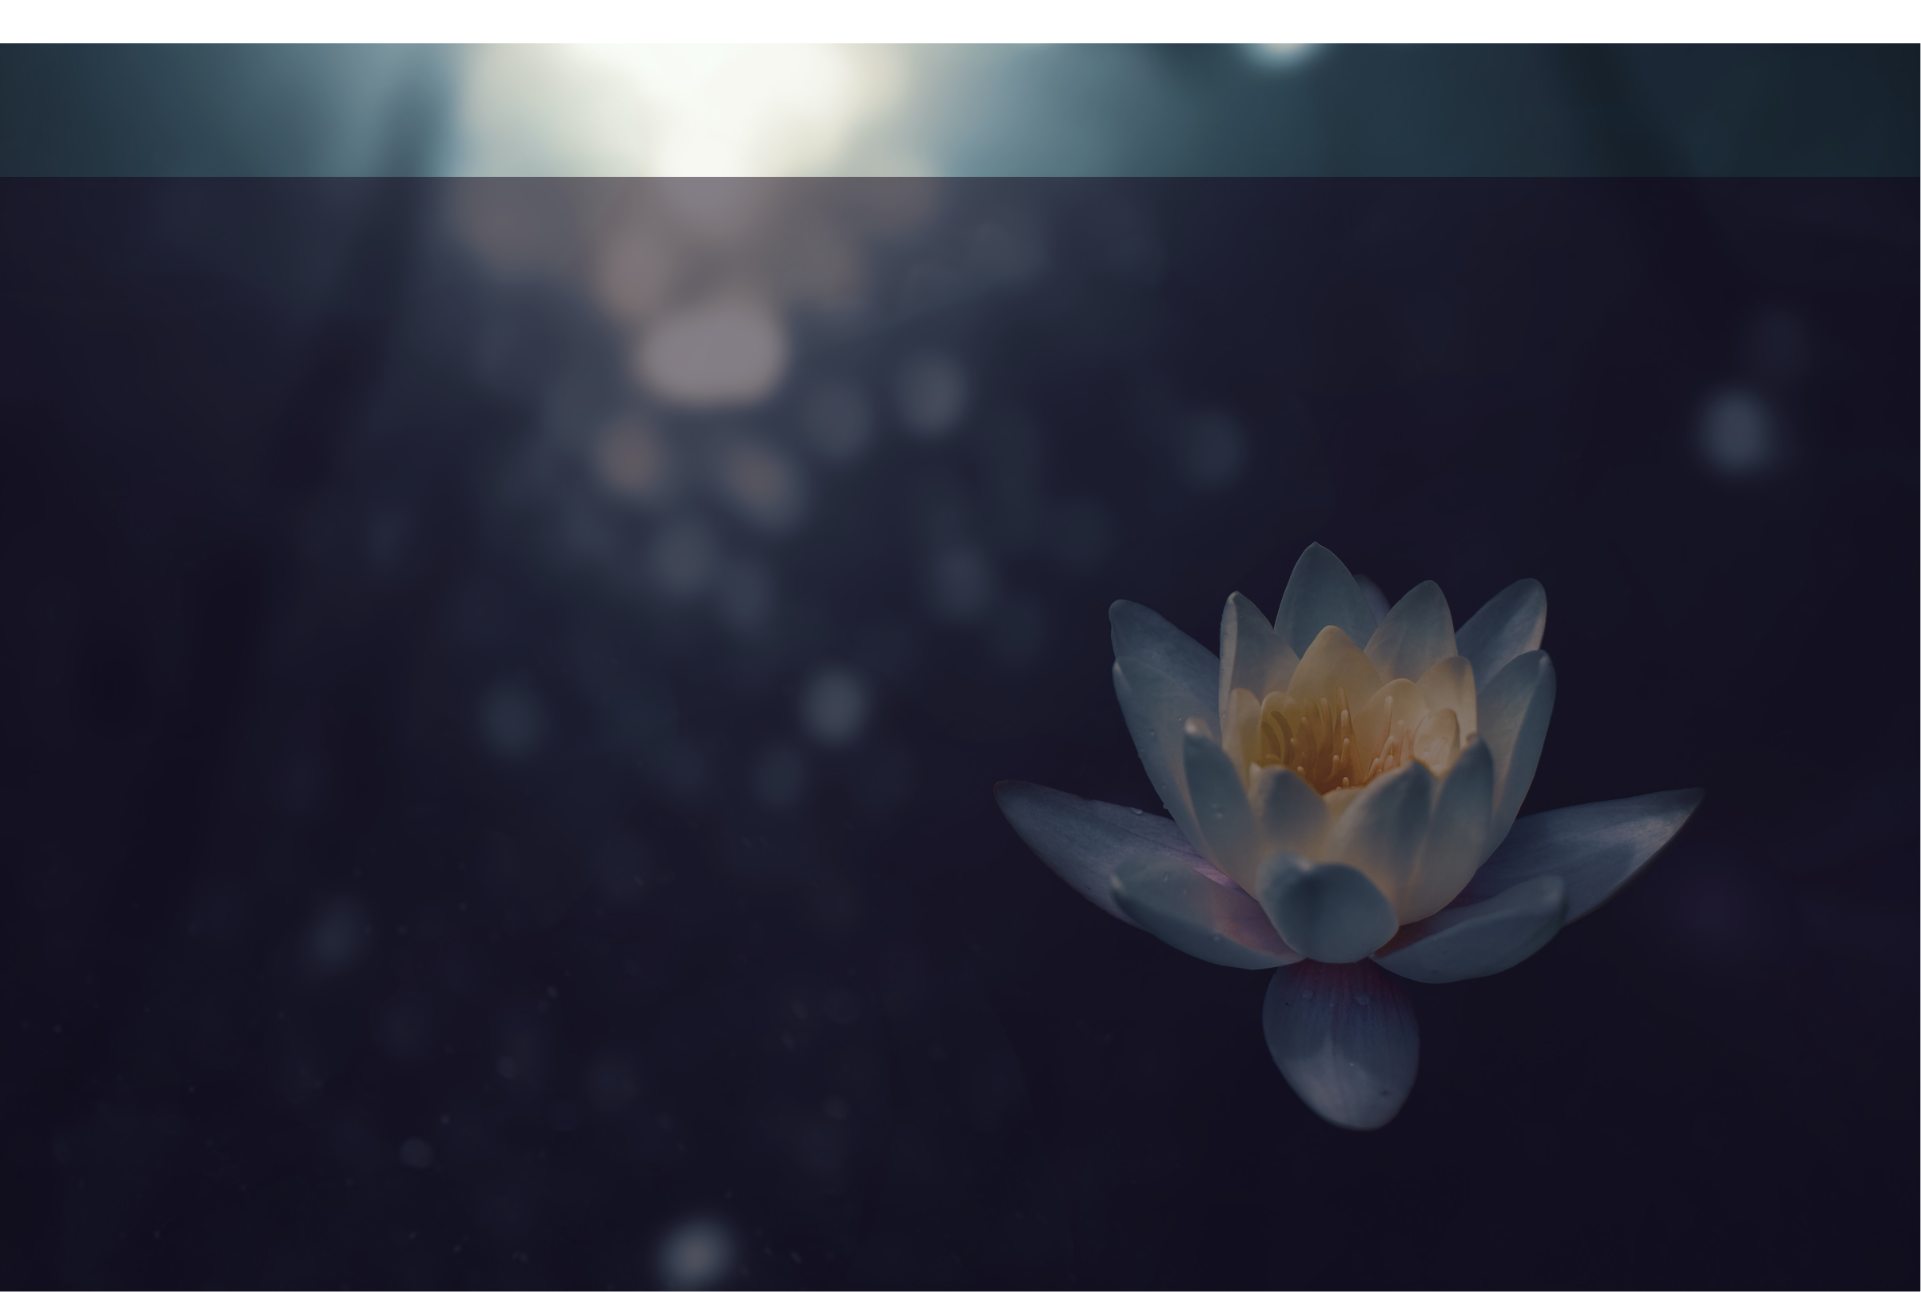
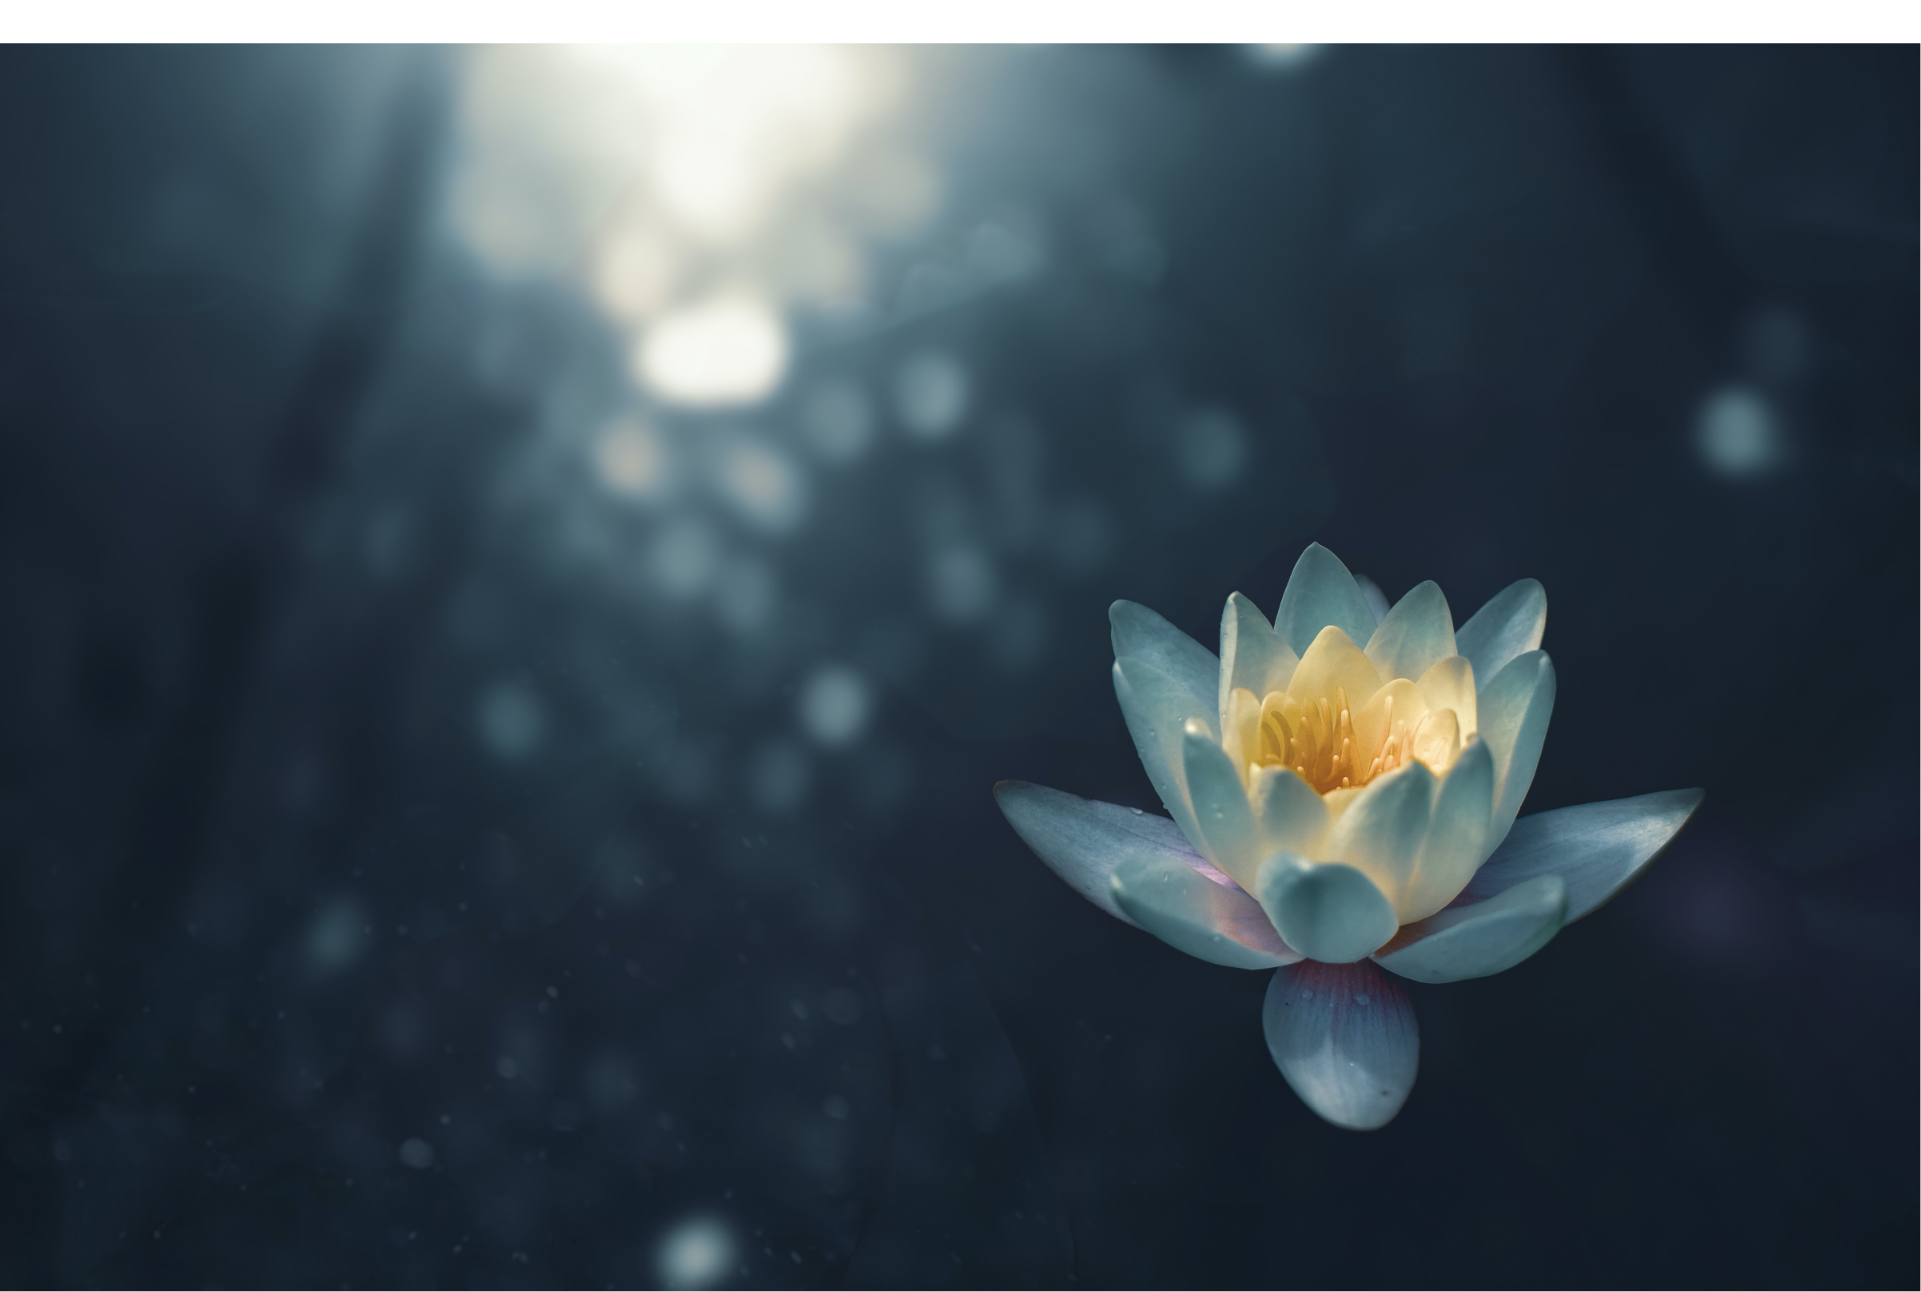
Fixes

diff --git a/urban-sanctuary/src/views/packages/index.scss b/urban-sanctuary/src/views/packages/index.scss
@@ -1,7 +1,7 @@
 .packages {
 
     &_banner {
-        background: url('../../assets/images/packages/backgroundBanner.png');
+        background: linear-gradient(0deg, rgba(0, 0, 0, 0.5), rgba(0, 0, 0, 0.5)), url('../../assets/images/packages/backgroundBanner.png');
         background-position: center;
         background-size: cover;
         background-repeat: no-repeat;
@@ -15,6 +15,7 @@
             font-family: 'Lato';
             letter-spacing: 2px;
             color: white;
+            padding-top: 150px;
 
             &_border {
                 width: 100px;
@@ -72,7 +73,8 @@
 
             @media only screen and (max-width: 600px) {
                 padding: 40px;
-
+                padding-top: 100px;
+                
                 &_cards {
                     column-gap: 40px;
                     justify-content: center;
@@ -84,13 +86,13 @@
     &_section {
         max-width: 1800px;
         margin: auto;
-        padding: 50px 120px;
+        padding: 70px 120px;
         padding-bottom: unset;
         font-family: 'Lato';
 
         &_details {
             display: flex;
-            align-items: center;
+            align-items: flex-start;
             justify-content: flex-start;
             gap: 60px;
 
@@ -131,6 +133,7 @@
                         font-weight: 500;
                         font-size: 16px;
                         margin-top: 45px;
+                        position: absolute;
 
                         img {
                             transform: rotate(270deg);
@@ -161,7 +164,7 @@
             justify-content: flex-start;
             flex-wrap: wrap;
             gap: 30px;
-            margin-top: 25px;
+            margin-top: 60px;
 
             &_card {
                 width: 342px;

diff --git a/urban-sanctuary/src/views/Tech-hair-testing/index.scss b/urban-sanctuary/src/views/Tech-hair-testing/index.scss
@@ -19,6 +19,7 @@ $gray-text-color: #8C8C8C;
             padding: 80px 150px 60px 150px;
             max-width: 1800px;
             margin: auto;
+            padding-top: 180px;
     
             .breadCrumbs {
                 display: flex;
@@ -95,7 +96,8 @@ $gray-text-color: #8C8C8C;
     
             @media only screen and (max-width: 800px) {
                 padding: 30px;
-    
+                padding-top: 120px;
+                
                 .breadCrumbs {
                     flex-direction: column;
                     align-items: flex-start;

diff --git a/urban-sanctuary/src/views/service-health/index.scss b/urban-sanctuary/src/views/service-health/index.scss
@@ -14,6 +14,7 @@
             align-items: center;
             justify-content: space-around;
             flex-wrap: wrap;
+            padding-top: 90px;
 
             &_links {
                 color: #80D934;
@@ -29,6 +30,10 @@
                 @media only screen and (max-width: 600px) {
                     text-align: center;
                 }
+            }
+
+            @media only screen and (max-width: 600px) {
+                padding-top: 30px;
             }
 
             &_title {

diff --git a/urban-sanctuary/src/views/Holistic-system/index.scss b/urban-sanctuary/src/views/Holistic-system/index.scss
@@ -13,6 +13,7 @@
             justify-content: space-around;
             flex-wrap: wrap;
             margin: auto;
+            padding-top: 200px;
     
             &_head {
                 font-size: 55px;
@@ -60,7 +61,8 @@
             &_banner {
                 padding: 30px;
                 justify-content: center;
-
+                padding-top: 120px;
+                
                 &_head {
                     font-size: 40px;
                     max-width: unset;

diff --git a/urban-sanctuary/src/components/Header/Header.scss b/urban-sanctuary/src/components/Header/Header.scss
@@ -58,7 +58,8 @@
     padding: 5px 0;
     background-color: #fff;
     z-index: 99;
-    position: relative;
+    position: fixed;
+    width: 100%;
     box-shadow: 0px 2px 5px 0 #07070733;
     .nav-link {
         text-transform: uppercase;

diff --git a/urban-sanctuary/src/views/Health-specialists/index.scss b/urban-sanctuary/src/views/Health-specialists/index.scss
@@ -90,6 +90,7 @@
         background-color: #2C2C2C;
         position: relative;
         gap: 50px;
+        padding-top: 50px;
 
         @media only screen and (max-width: 800px) {
             .right_icon {
